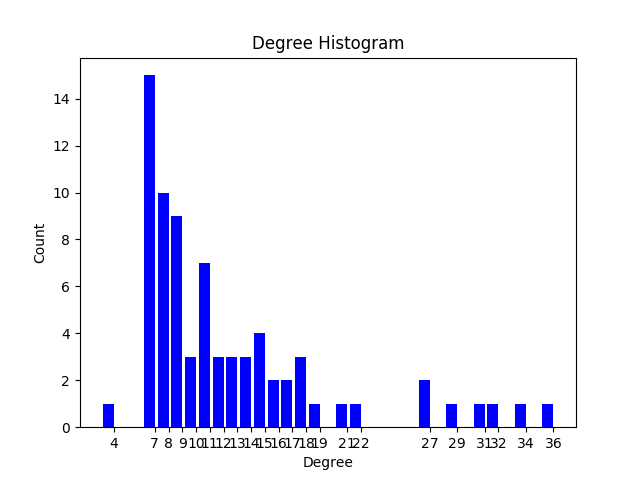
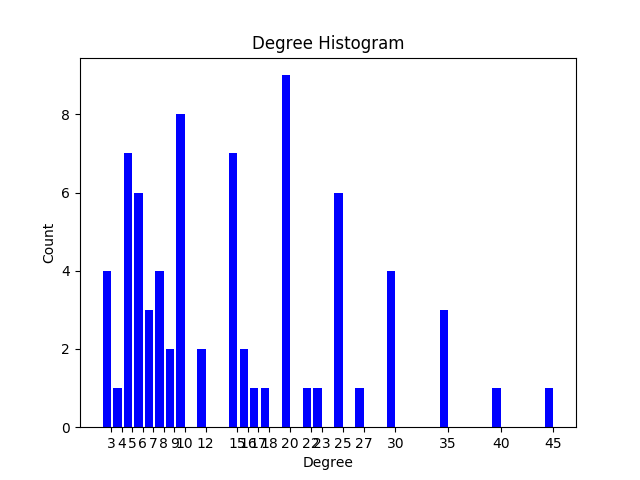
Updated network.py and graph pictures

diff --git a/social/network.py b/social/network.py
@@ -124,7 +124,7 @@ def graph_to_histogram(G):
 
 if __name__ == "__main__":
     # create erdos-renyi graph
-    c, G = erdos_renyi(75, 16.68/75, True)
+    c, G = erdos_renyi(75, 16.68/75, False)
     graph_to_histogram(G)
 
     # create barabasi-albert graph
@@ -134,5 +134,5 @@ if __name__ == "__main__":
 
     #create walts graph
     degree_sequence = [5, 12, 3, 25, 9, 10, 6, 20, 20, 8, 7, 15, 16, 30, 3, 5, 20, 3, 10, 20, 20, 40, 10, 10, 8, 45, 8, 5, 6, 9, 35, 30, 10, 5, 15, 3, 40, 25, 40, 10, 15, 5, 16, 30, 6, 40, 17, 25, 8, 30, 50, 20, 20, 4, 10, 6, 12, 15, 30, 20, 7, 6, 7, 30, 50, 25, 25, 10, 15, 5, 30, 5, 6, 15, 15]
-    walts_graph(degree_sequence, plot = False)
+    C, G = walts_graph(degree_sequence, plot = True)
     graph_to_histogram(G)
